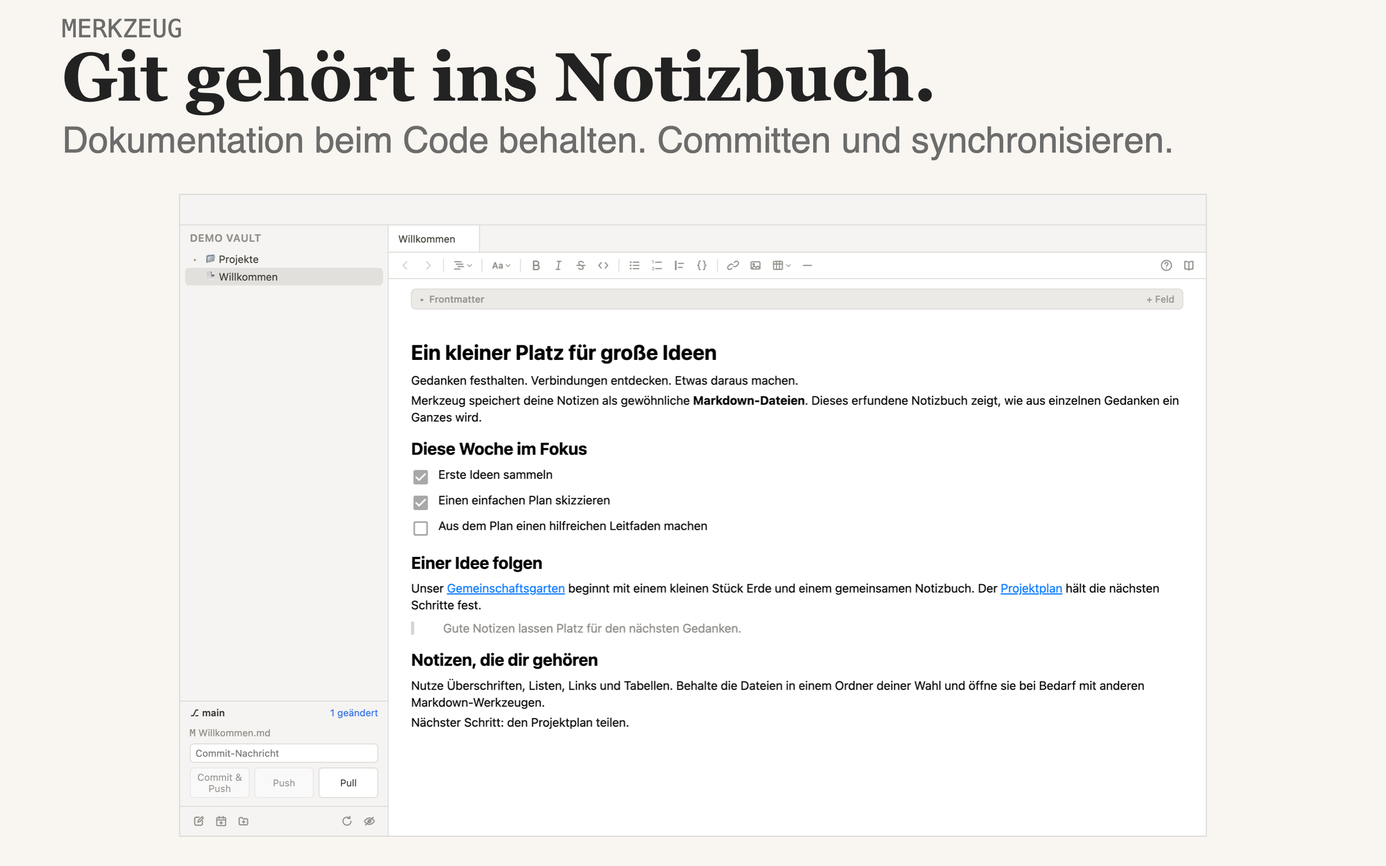
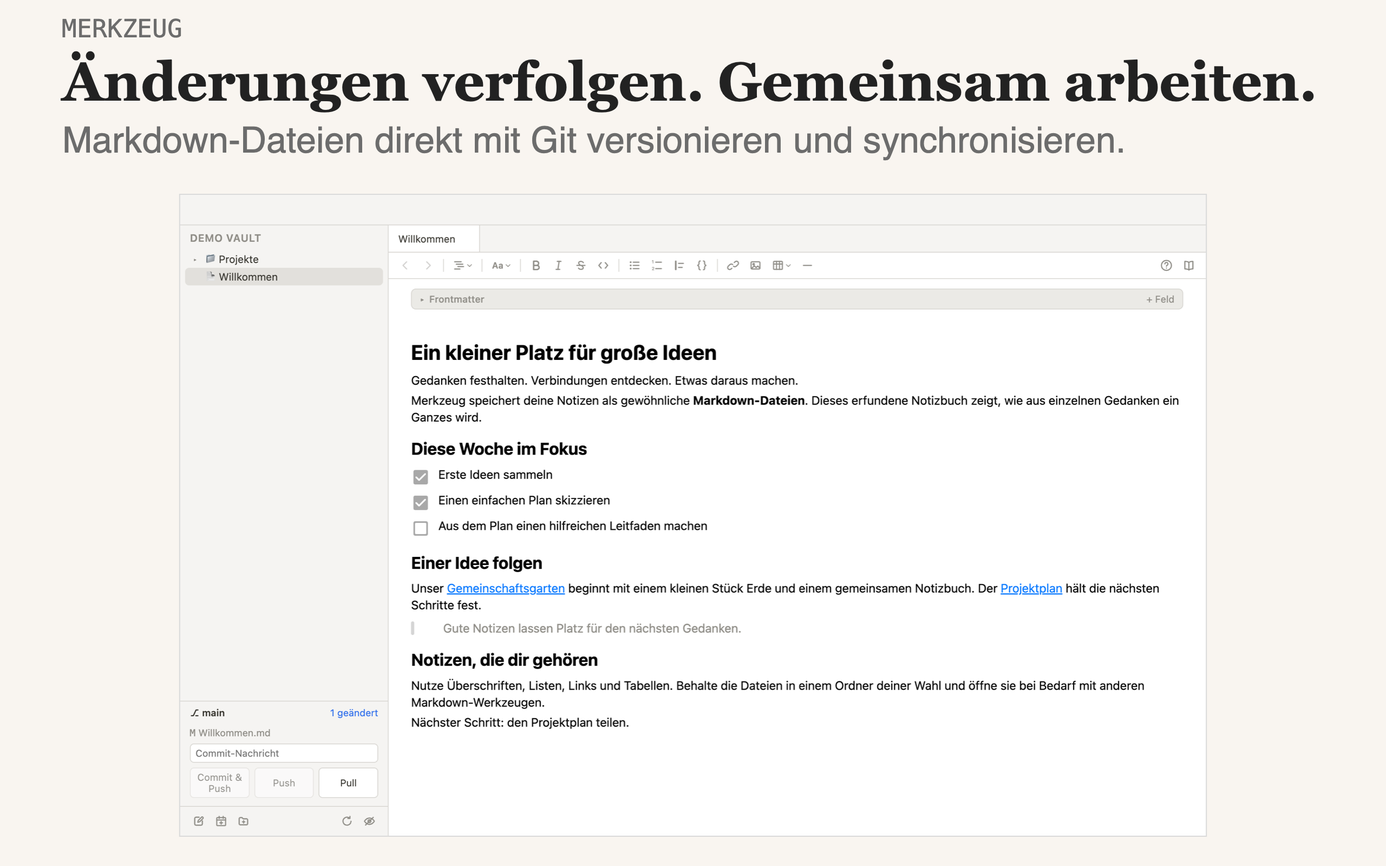
Clarify Git marketing on website and Mac App Store

Changed region(s): [[0.0312, 0.0625, 0.9375, 0.1875]]

diff --git a/website/de.html b/website/de.html
@@ -1,4 +1,4 @@
-<!doctype html><html lang="de"><head><meta charset="utf-8"><meta name="viewport" content="width=device-width,initial-scale=1"><meta name="description" content="Durchsuche, verbinde und bearbeite Markdown-Sammlungen – vom persönlichen Notizbuch bis zur Dokumentation deiner Coding-Agenten."><title>Dein Markdown. Im Zusammenhang. · Merkzeug</title><link rel="stylesheet" href="style.css"><link rel="icon" href="assets/icon.png"><link rel="canonical" href="https://merkzeug.creative-it.com/de.html"><meta property="og:title" content="Dein Markdown. Im Zusammenhang. · Merkzeug"><meta property="og:description" content="Durchsuche, verbinde und bearbeite Markdown-Sammlungen – vom persönlichen Notizbuch bis zur Dokumentation deiner Coding-Agenten."><meta property="og:type" content="website"><meta property="og:image" content="https://merkzeug.creative-it.com/assets/mac-de.png"></head><body><a class="skip" href="#content">Zum Inhalt</a><header><a class="brand" href="de.html"><img src="assets/icon.png" alt="" width="36" height="36"><strong>Merkzeug</strong></a><nav aria-label="Hauptnavigation"><a href="help-de.html">Hilfe</a><a href="https://support.apps.creative-it.com/?app=merkzeug&amp;lang=de">Support</a><a href="index.html" lang="en">English</a></nav></header><main id="content" class=""><section class="hero"><div class="eyebrow">In Entwicklung · Erste App-Store-Version in Vorbereitung</div><h1>Dein Markdown. Im Zusammenhang.</h1><p class="lead">Durchsuche, verbinde und bearbeite Markdown-Sammlungen – vom persönlichen Notizbuch bis zur Dokumentation deiner Coding-Agenten.</p><p>Finde dich in einer Sammlung von Dateien zurecht. Folge Links, lies Diagramme und bearbeite Inhalte visuell. Deine Notizen bleiben in den Ordnern und Repositories, zu denen sie gehören.</p><div class="actions"><a class="button" href="help-de.html">Merkzeug kennenlernen</a><a class="button secondary" href="#platforms">Mac · iPhone · iPad</a></div></section><section id="name" class="feature-section"><p class="eyebrow">Der Gedanke hinter dem Namen</p><h2>Ein Werkzeug fürs Merken.</h2><p><strong>Merken + Werkzeug = Merkzeug.</strong> Für Gedanken, die du festhalten, wiederfinden und weiterentwickeln möchtest. Aus vielen Markdown-Dateien wird eine Sammlung, in der du dich zurechtfindest.</p></section><section id="collections" class="feature-section"><h2>Ein Werkzeug. Zwei Ausgangspunkte.</h2><div class="grid two"><article><h3>Dein persönliches Notizbuch</h3><p>Gedanken, Projekte und Meeting-Notizen bilden eine Sammlung, die mit dir wächst. Nutze einen Ordner als Notizbuch, verknüpfe seine Notizen und halte ihren Kontext im Frontmatter fest. Dafür brauchst du kein Git-Repository.</p></article><article><h3>Dein Repository als Wissenssammlung</h3><p>READMEs, Architekturentscheidungen, Pläne und Agenten-Dokumentation liegen bereits neben deinem Code. Navigiere und bearbeite sie dort, wo sie sind. Links und integrierte Diagramme machen ihre Zusammenhänge sichtbar.</p></article></div><p>Merkzeug ist ein Lese- und Bearbeitungswerkzeug für deine Markdown-Sammlungen. Es erzeugt selbst keine Dokumentation und führt keinen Coding-Agenten aus.</p></section><nav class="section-nav" aria-label="Funktionen entdecken"><a href="#repositories">Repositories</a><a href="#pdf">PDF &amp; Vorlagen</a><a href="#frontmatter">Frontmatter</a><a href="#calendar">Kalender</a><a href="#ios-git">Git auf iOS</a><a href="#platforms">Plattformen</a><a href="#roadmap">Roadmap</a><a href="release-notes-de.html">Release Notes</a></nav><figure style="margin:0"><img class="preview" src="assets/mac-de.png" width="2560" height="1600" alt="Entwicklungsvorschau von Merkzeug auf dem Mac mit erfundenen Notizen"><figcaption>Entwicklungsvorschau von Merkzeug auf dem Mac mit erfundenen Notizen</figcaption></figure><div class="grid"><article><h2>Klar schreiben</h2><p>Überschriften, Listen, Aufgaben, Tabellen und Bilder — visuell bearbeiten, als Markdown speichern.</p></article><article><h2>Gedanken verbinden</h2><p>Verknüpfe Notizen und stelle Abläufe als Mermaid-Diagramme dar. Deine Ordner bleiben deine Struktur.</p></article><article><h2>Als PDF teilen</h2><p>Auf dem Mac exportierst du eine Notiz oder verknüpfte Notizen mit wiederverwendbaren PDF-Vorlagen.</p></article></div><section id="repositories" class="feature-section"><p class="eyebrow">Vom Repository zum lesbaren Zusammenhang</p><h2>Deine Agenten schreiben Markdown. Du erkennst den Zusammenhang.</h2><p class="lead">Architekturübersichten, Umsetzungspläne, Recherchen und Projektübergaben gehören zum Code. Merkzeug macht sie angenehm lesbar.</p><p>Öffne den Dokumentationsordner deines Repositorys, folge Verweisen zwischen Notizen und lies Mermaid-Diagramme direkt im Dokument. Überschriften, Tabellen und Aufgabenlisten geben erzeugten Markdown-Dateien eine klare Struktur. Prüfe das Ergebnis, ergänze Erklärungen und behalte deinen gewohnten Git-Workflow.</p><p>Zum Beispiel: Starte mit einer Übersicht, folge dem Link zu einer Architekturentscheidung, sieh dir das eingebettete Ablaufdiagramm an und exportiere am Desktop die Übersicht samt ausgewählten verlinkten Notizen als PDF.</p><figure><a href="assets/macos-de-diagram.png"><img class="preview" src="assets/macos-de-diagram.png" width="2560" height="1600" loading="lazy" alt="Mac-Entwicklungsvorschau mit einem Mermaid-Ablaufdiagramm in einer Projektnotiz"></a><figcaption>Das Diagramm ist Teil der Notiz. Mac-Entwicklungsvorschau mit erfundenen Beispieldaten; Bild anklicken für die volle Größe.</figcaption></figure><h3>Änderungen mit Git festhalten.</h3><p>Der Git-Bereich am Desktop zeigt den aktuellen Branch und geänderte Dateien und bietet Commit, Push und Pull. Auf iPhone und iPad übernimmt Working Copy die Git-Aktionen, während Merkzeug die gemeinsamen Dateien bearbeitet.</p><figure class="feature-shot"><a href="assets/macos-de-git.png"><img class="preview" src="assets/macos-de-git.png" width="2560" height="1600" loading="lazy" decoding="async" alt="Git-Bereich mit dem Branch main, einer geänderten Markdown-Datei und Aktionen für Commit, Push und Pull"></a><figcaption>Mac · Geänderte Dateien sehen und Git direkt im Notizbuch verwenden. Der Screenshot zeigt ein lokales Demo-Repository.</figcaption></figure></section>
+<!doctype html><html lang="de"><head><meta charset="utf-8"><meta name="viewport" content="width=device-width,initial-scale=1"><meta name="description" content="Durchsuche, verbinde und bearbeite Markdown-Sammlungen – vom persönlichen Notizbuch bis zur Dokumentation deiner Coding-Agenten."><title>Dein Markdown. Im Zusammenhang. · Merkzeug</title><link rel="stylesheet" href="style.css"><link rel="icon" href="assets/icon.png"><link rel="canonical" href="https://merkzeug.creative-it.com/de.html"><meta property="og:title" content="Dein Markdown. Im Zusammenhang. · Merkzeug"><meta property="og:description" content="Durchsuche, verbinde und bearbeite Markdown-Sammlungen – vom persönlichen Notizbuch bis zur Dokumentation deiner Coding-Agenten."><meta property="og:type" content="website"><meta property="og:image" content="https://merkzeug.creative-it.com/assets/mac-de.png"></head><body><a class="skip" href="#content">Zum Inhalt</a><header><a class="brand" href="de.html"><img src="assets/icon.png" alt="" width="36" height="36"><strong>Merkzeug</strong></a><nav aria-label="Hauptnavigation"><a href="help-de.html">Hilfe</a><a href="https://support.apps.creative-it.com/?app=merkzeug&amp;lang=de">Support</a><a href="index.html" lang="en">English</a></nav></header><main id="content" class=""><section class="hero"><div class="eyebrow">In Entwicklung · Erste App-Store-Version in Vorbereitung</div><h1>Dein Markdown. Im Zusammenhang.</h1><p class="lead">Durchsuche, verbinde und bearbeite Markdown-Sammlungen – vom persönlichen Notizbuch bis zur Dokumentation deiner Coding-Agenten.</p><p>Finde dich in einer Sammlung von Dateien zurecht. Folge Links, lies Diagramme und bearbeite Inhalte visuell. Deine Notizen bleiben in den Ordnern und Repositories, zu denen sie gehören.</p><div class="actions"><a class="button" href="help-de.html">Merkzeug kennenlernen</a><a class="button secondary" href="#platforms">Mac · iPhone · iPad</a></div></section><section id="name" class="feature-section"><p class="eyebrow">Der Gedanke hinter dem Namen</p><h2>Ein Werkzeug fürs Merken.</h2><p><strong>Merken + Werkzeug = Merkzeug.</strong> Für Gedanken, die du festhalten, wiederfinden und weiterentwickeln möchtest. Aus vielen Markdown-Dateien wird eine Sammlung, in der du dich zurechtfindest.</p></section><section id="collections" class="feature-section"><h2>Ein Werkzeug. Zwei Ausgangspunkte.</h2><div class="grid two"><article><h3>Dein persönliches Notizbuch</h3><p>Gedanken, Projekte und Meeting-Notizen bilden eine Sammlung, die mit dir wächst. Nutze einen Ordner als Notizbuch, verknüpfe seine Notizen und halte ihren Kontext im Frontmatter fest. Dafür brauchst du kein Git-Repository.</p></article><article><h3>Dein Repository als Wissenssammlung</h3><p>READMEs, Architekturentscheidungen, Pläne und Agenten-Dokumentation liegen bereits neben deinem Code. Navigiere und bearbeite sie dort, wo sie sind. Links und integrierte Diagramme machen ihre Zusammenhänge sichtbar.</p></article></div><p>Merkzeug ist ein Lese- und Bearbeitungswerkzeug für deine Markdown-Sammlungen. Es erzeugt selbst keine Dokumentation und führt keinen Coding-Agenten aus.</p></section><nav class="section-nav" aria-label="Funktionen entdecken"><a href="#repositories">Repositories</a><a href="#pdf">PDF &amp; Vorlagen</a><a href="#frontmatter">Frontmatter</a><a href="#calendar">Kalender</a><a href="#ios-git">Git auf iOS</a><a href="#platforms">Plattformen</a><a href="#roadmap">Roadmap</a><a href="release-notes-de.html">Release Notes</a></nav><figure style="margin:0"><img class="preview" src="assets/mac-de.png" width="2560" height="1600" alt="Entwicklungsvorschau von Merkzeug auf dem Mac mit erfundenen Notizen"><figcaption>Entwicklungsvorschau von Merkzeug auf dem Mac mit erfundenen Notizen</figcaption></figure><div class="grid"><article><h2>Klar schreiben</h2><p>Überschriften, Listen, Aufgaben, Tabellen und Bilder — visuell bearbeiten, als Markdown speichern.</p></article><article><h2>Gedanken verbinden</h2><p>Verknüpfe Notizen und stelle Abläufe als Mermaid-Diagramme dar. Deine Ordner bleiben deine Struktur.</p></article><article><h2>Als PDF teilen</h2><p>Auf dem Mac exportierst du eine Notiz oder verknüpfte Notizen mit wiederverwendbaren PDF-Vorlagen.</p></article></div><section id="repositories" class="feature-section"><p class="eyebrow">Vom Repository zum lesbaren Zusammenhang</p><h2>Deine Agenten schreiben Markdown. Du erkennst den Zusammenhang.</h2><p class="lead">Architekturübersichten, Umsetzungspläne, Recherchen und Projektübergaben gehören zum Code. Merkzeug macht sie angenehm lesbar.</p><p>Öffne den Dokumentationsordner deines Repositorys, folge Verweisen zwischen Notizen und lies Mermaid-Diagramme direkt im Dokument. Überschriften, Tabellen und Aufgabenlisten geben erzeugten Markdown-Dateien eine klare Struktur. Prüfe das Ergebnis, ergänze Erklärungen und behalte deinen gewohnten Git-Workflow.</p><p>Zum Beispiel: Starte mit einer Übersicht, folge dem Link zu einer Architekturentscheidung, sieh dir das eingebettete Ablaufdiagramm an und exportiere am Desktop die Übersicht samt ausgewählten verlinkten Notizen als PDF.</p><figure><a href="assets/macos-de-diagram.png"><img class="preview" src="assets/macos-de-diagram.png" width="2560" height="1600" loading="lazy" alt="Mac-Entwicklungsvorschau mit einem Mermaid-Ablaufdiagramm in einer Projektnotiz"></a><figcaption>Das Diagramm ist Teil der Notiz. Mac-Entwicklungsvorschau mit erfundenen Beispieldaten; Bild anklicken für die volle Größe.</figcaption></figure><h3>Änderungen verfolgen. Gemeinsam arbeiten.</h3><p>Markdown-Dateien direkt mit Git versionieren und synchronisieren.</p><p>Der Git-Bereich am Desktop zeigt den aktuellen Branch und geänderte Dateien und bietet Commit, Push und Pull. Auf iPhone und iPad übernimmt Working Copy die Git-Aktionen, während Merkzeug die gemeinsamen Dateien bearbeitet.</p><figure class="feature-shot"><a href="assets/macos-de-git.png"><img class="preview" src="assets/macos-de-git.png" width="2560" height="1600" loading="lazy" decoding="async" alt="Git-Bereich mit dem Branch main, einer geänderten Markdown-Datei und Aktionen für Commit, Push und Pull"></a><figcaption>Mac · Geänderte Dateien sehen und Git direkt im Notizbuch verwenden. Der Screenshot zeigt ein lokales Demo-Repository.</figcaption></figure></section>
 <section id="pdf" class="feature-section"><p class="eyebrow">PDF-Export &amp; Vorlagen · Desktop und IntelliJ-Vorschau</p><h2>Aus Arbeitsnotizen werden Dokumente zum Weitergeben.</h2><div class="grid two"><article><h3>Eine Notiz. Oder mehrere verknüpfte Dokumente.</h3><p>Exportiere eine einzelne Notiz oder hänge direkt verlinkte Markdown-Dokumente aus ihrer Ordnerhierarchie an. Verweise auf enthaltene Dokumente werden zu PDF-Sprungzielen. Ergänze ein anklickbares Inhaltsverzeichnis und einen eigenen Titel für das gemeinsame Dokument.</p><p>Mermaid-Diagramme werden vor dem Export gerendert. Breite Tabellen lösen eine Ausgabe im Querformat aus. Am Desktop kannst du auch mehrere ausgewählte Notizen als einzelne PDFs exportieren.</p></article><article><h3>Ein wiederverwendbares Layout pro Projekt.</h3><p>Gestalte Vorlagen mit Deckblatt, Logo, Kopf- und Fußzeilen, CSS und Seitenrändern. Füge Dokumenttitel, Datum und Seitenzahlen ein. Am Desktop ordnest du einem Notizbuch eine Vorlage zu; in IntelliJ wählst du einen Vorlagenordner für das Projekt.</p><p>Vorlagen sind gewöhnliche Dateien und lassen sich mit Git versionieren. Der PDF-Export läuft lokal. Auf iPhone und iPad ist er noch nicht verfügbar.</p></article></div><p>Starte mit der mitgelieferten Merkzeug-Vorlage. Passe eine Kopie an deine Farben und dein Logo an oder nutze die enthaltene Anleitung mit einem Agenten.</p><details><summary>Was gehört in eine PDF-Vorlage?</summary><p>Eine Vorlage ist ein Ordner mit diesen optionalen Dateien:</p><ul><li><code>deckblatt.html</code> — Deckblatt</li><li><code>kopfzeile.html</code> und <code>fusszeile.html</code> — Kopf- und Fußzeile</li><li><code>stil.css</code> — Dokumentgestaltung</li><li><code>vorlage.json</code> — Seitenränder</li></ul><p>Lege Logos im selben Ordner ab und verweise mit relativen Bildpfaden darauf. <code>{{titel}}</code> und <code>{{datum}}</code> setzen Titel und Exportdatum ein.</p></details><p><a href="help-de.html">PDF-Export und Vorlagen im Desktop-Handbuch kennenlernen →</a></p><figure class="feature-shot"><a href="assets/macos-de-pdf.png"><img class="preview" src="assets/macos-de-pdf.png" width="2880" height="1800" loading="lazy" decoding="async" alt="Deckblatt und Diagrammseite eines mit der Merkzeug-Vorlage exportierten PDFs"></a><figcaption>Echtes PDF-Ergebnis · Deckblatt und verlinkte Projektnotiz, exportiert mit der mitgelieferten Merkzeug-Vorlage. Bild für die volle Größe auswählen.</figcaption></figure></section>
 <section id="frontmatter" class="feature-section"><p class="eyebrow">Frontmatter</p><h2>Gib deinen Notizen Kontext.</h2><div class="grid two"><div><p>Strukturierte Metadaten stehen am Anfang deiner Markdown-Datei. Klappe den Frontmatter-Bereich auf, bearbeite YAML und ergänze Felder für Titel, Tags oder eigene Projektinformationen.</p><p>Auch die Exporteinstellungen bleiben beim Dokument: <code>pdf-linked-title</code> benennt das gemeinsame PDF, <code>pdf-toc</code> aktiviert sein Inhaltsverzeichnis, <code>pdf-exclude</code> lässt ausgewählte verlinkte Notizen aus und <code>language</code> bestimmt die Sprache der Inhaltsüberschrift.</p></div><div><pre aria-label="Beispiel für YAML-Frontmatter"><code>---
 title: Systemübersicht

diff --git a/website/index.html b/website/index.html
@@ -1,4 +1,4 @@
-<!doctype html><html lang="en"><head><meta charset="utf-8"><meta name="viewport" content="width=device-width,initial-scale=1"><meta name="description" content="Explore and edit Markdown collections — from personal notebooks to documentation written by coding agents."><title>Your Markdown. Connected. · Merkzeug</title><link rel="stylesheet" href="style.css"><link rel="icon" href="assets/icon.png"><link rel="canonical" href="https://merkzeug.creative-it.com/"><meta property="og:title" content="Your Markdown. Connected. · Merkzeug"><meta property="og:description" content="Explore and edit Markdown collections — from personal notebooks to documentation written by coding agents."><meta property="og:type" content="website"><meta property="og:image" content="https://merkzeug.creative-it.com/assets/mac-en.png"></head><body><a class="skip" href="#content">Skip to content</a><header><a class="brand" href="index.html"><img src="assets/icon.png" alt="" width="36" height="36"><strong>Merkzeug</strong></a><nav aria-label="Main navigation"><a href="help-en.html">Help</a><a href="https://support.apps.creative-it.com/?app=merkzeug&amp;lang=en">Support</a><a href="de.html" lang="de">Deutsch</a></nav></header><main id="content" class=""><section class="hero"><div class="eyebrow">In development · First App Store release in preparation</div><h1>Your Markdown. Connected.</h1><p class="lead">Explore and edit Markdown collections — from personal notebooks to documentation written by coding agents.</p><p>Find your way through a collection of files. Follow links, read diagrams and edit visually. Your notes stay in the folders and repositories where they belong.</p><div class="actions"><a class="button" href="help-en.html">Explore the guide</a><a class="button secondary" href="#platforms">Mac · iPhone · iPad</a></div></section><section id="name" class="feature-section"><p class="eyebrow">The name behind the tool</p><h2>Merkzeug — a tool for thoughts worth keeping.</h2><p>The name brings together the German words <em>merken</em> — to remember — and <em>Werkzeug</em> — tool. A tool for keeping ideas, finding them again and making something of them.</p></section><section id="collections" class="feature-section"><h2>One tool. Two places to begin.</h2><div class="grid two"><article><h3>Your personal notebook</h3><p>Ideas, projects and meeting notes form a collection that grows with you. Use a folder as your notebook, connect its notes and keep their context with frontmatter. No Git repository is required.</p></article><article><h3>Your repository as a knowledge collection</h3><p>READMEs, architecture decisions, plans and agent-written documentation already live beside your code. Navigate and edit them where they are, using links and integrated diagrams to see how they fit together.</p></article></div><p>Merkzeug is a reader and editor for your Markdown collections. It does not generate documentation or run a coding agent.</p></section><nav class="section-nav" aria-label="Explore features"><a href="#repositories">Repositories</a><a href="#pdf">PDF &amp; Templates</a><a href="#frontmatter">Frontmatter</a><a href="#calendar">Calendar</a><a href="#ios-git">Git on iOS</a><a href="#platforms">Platforms</a><a href="#roadmap">Roadmap</a><a href="release-notes-en.html">Release notes</a></nav><figure style="margin:0"><img class="preview" src="assets/mac-en.png" width="2560" height="1600" alt="Development preview of Merkzeug on Mac with fictional notes"><figcaption>Development preview of Merkzeug on Mac with fictional notes</figcaption></figure><div class="grid"><article><h2>Write with clarity</h2><p>Headings, lists, tasks, tables and images — with visual editing and Markdown underneath.</p></article><article><h2>Connect your thinking</h2><p>Link notes and turn processes into Mermaid diagrams. Your folders remain your structure.</p></article><article><h2>Share as a PDF</h2><p>On Mac, export a note or a collection of linked notes with reusable PDF templates.</p></article></div><section id="repositories" class="feature-section"><p class="eyebrow">From your repository to a readable story</p><h2>Your agents write Markdown. You make sense of it.</h2><p class="lead">Architecture overviews, implementation plans, research and project handovers belong beside the code. Merkzeug makes them comfortable to read.</p><p>Open your repository’s documentation folder, follow links between notes and read Mermaid diagrams directly in the document. Headings, tables and task lists give generated Markdown a clear visual structure. Review the result, edit the explanation and keep the files in your existing Git workflow.</p><p>For example: start with an overview, follow a link to a design decision, inspect its embedded flowchart, then export the overview and selected linked notes as a PDF on desktop.</p><figure><a href="assets/macos-en-diagram.png"><img class="preview" src="assets/macos-en-diagram.png" width="2560" height="1600" loading="lazy" alt="Mac development preview showing a Mermaid flowchart inside a project note"></a><figcaption>A diagram is part of the note. Mac development preview with fictional demo content; select the image to see it full size.</figcaption></figure><h3>Keep changes in Git.</h3><p>The desktop Git panel shows the current branch and changed files, with commit, push and pull actions. On iPhone and iPad, Working Copy handles Git while Merkzeug edits the shared files.</p><figure class="feature-shot"><a href="assets/macos-en-git.png"><img class="preview" src="assets/macos-en-git.png" width="2560" height="1600" loading="lazy" decoding="async" alt="Git panel showing the main branch, a changed Markdown file and commit, push and pull controls"></a><figcaption>Mac · Review changed files and use Git from your notebook. The screenshot uses a local demo repository.</figcaption></figure></section>
+<!doctype html><html lang="en"><head><meta charset="utf-8"><meta name="viewport" content="width=device-width,initial-scale=1"><meta name="description" content="Explore and edit Markdown collections — from personal notebooks to documentation written by coding agents."><title>Your Markdown. Connected. · Merkzeug</title><link rel="stylesheet" href="style.css"><link rel="icon" href="assets/icon.png"><link rel="canonical" href="https://merkzeug.creative-it.com/"><meta property="og:title" content="Your Markdown. Connected. · Merkzeug"><meta property="og:description" content="Explore and edit Markdown collections — from personal notebooks to documentation written by coding agents."><meta property="og:type" content="website"><meta property="og:image" content="https://merkzeug.creative-it.com/assets/mac-en.png"></head><body><a class="skip" href="#content">Skip to content</a><header><a class="brand" href="index.html"><img src="assets/icon.png" alt="" width="36" height="36"><strong>Merkzeug</strong></a><nav aria-label="Main navigation"><a href="help-en.html">Help</a><a href="https://support.apps.creative-it.com/?app=merkzeug&amp;lang=en">Support</a><a href="de.html" lang="de">Deutsch</a></nav></header><main id="content" class=""><section class="hero"><div class="eyebrow">In development · First App Store release in preparation</div><h1>Your Markdown. Connected.</h1><p class="lead">Explore and edit Markdown collections — from personal notebooks to documentation written by coding agents.</p><p>Find your way through a collection of files. Follow links, read diagrams and edit visually. Your notes stay in the folders and repositories where they belong.</p><div class="actions"><a class="button" href="help-en.html">Explore the guide</a><a class="button secondary" href="#platforms">Mac · iPhone · iPad</a></div></section><section id="name" class="feature-section"><p class="eyebrow">The name behind the tool</p><h2>Merkzeug — a tool for thoughts worth keeping.</h2><p>The name brings together the German words <em>merken</em> — to remember — and <em>Werkzeug</em> — tool. A tool for keeping ideas, finding them again and making something of them.</p></section><section id="collections" class="feature-section"><h2>One tool. Two places to begin.</h2><div class="grid two"><article><h3>Your personal notebook</h3><p>Ideas, projects and meeting notes form a collection that grows with you. Use a folder as your notebook, connect its notes and keep their context with frontmatter. No Git repository is required.</p></article><article><h3>Your repository as a knowledge collection</h3><p>READMEs, architecture decisions, plans and agent-written documentation already live beside your code. Navigate and edit them where they are, using links and integrated diagrams to see how they fit together.</p></article></div><p>Merkzeug is a reader and editor for your Markdown collections. It does not generate documentation or run a coding agent.</p></section><nav class="section-nav" aria-label="Explore features"><a href="#repositories">Repositories</a><a href="#pdf">PDF &amp; Templates</a><a href="#frontmatter">Frontmatter</a><a href="#calendar">Calendar</a><a href="#ios-git">Git on iOS</a><a href="#platforms">Platforms</a><a href="#roadmap">Roadmap</a><a href="release-notes-en.html">Release notes</a></nav><figure style="margin:0"><img class="preview" src="assets/mac-en.png" width="2560" height="1600" alt="Development preview of Merkzeug on Mac with fictional notes"><figcaption>Development preview of Merkzeug on Mac with fictional notes</figcaption></figure><div class="grid"><article><h2>Write with clarity</h2><p>Headings, lists, tasks, tables and images — with visual editing and Markdown underneath.</p></article><article><h2>Connect your thinking</h2><p>Link notes and turn processes into Mermaid diagrams. Your folders remain your structure.</p></article><article><h2>Share as a PDF</h2><p>On Mac, export a note or a collection of linked notes with reusable PDF templates.</p></article></div><section id="repositories" class="feature-section"><p class="eyebrow">From your repository to a readable story</p><h2>Your agents write Markdown. You make sense of it.</h2><p class="lead">Architecture overviews, implementation plans, research and project handovers belong beside the code. Merkzeug makes them comfortable to read.</p><p>Open your repository’s documentation folder, follow links between notes and read Mermaid diagrams directly in the document. Headings, tables and task lists give generated Markdown a clear visual structure. Review the result, edit the explanation and keep the files in your existing Git workflow.</p><p>For example: start with an overview, follow a link to a design decision, inspect its embedded flowchart, then export the overview and selected linked notes as a PDF on desktop.</p><figure><a href="assets/macos-en-diagram.png"><img class="preview" src="assets/macos-en-diagram.png" width="2560" height="1600" loading="lazy" alt="Mac development preview showing a Mermaid flowchart inside a project note"></a><figcaption>A diagram is part of the note. Mac development preview with fictional demo content; select the image to see it full size.</figcaption></figure><h3>Track changes. Work together.</h3><p>Version and sync your Markdown files with Git.</p><p>The desktop Git panel shows the current branch and changed files, with commit, push and pull actions. On iPhone and iPad, Working Copy handles Git while Merkzeug edits the shared files.</p><figure class="feature-shot"><a href="assets/macos-en-git.png"><img class="preview" src="assets/macos-en-git.png" width="2560" height="1600" loading="lazy" decoding="async" alt="Git panel showing the main branch, a changed Markdown file and commit, push and pull controls"></a><figcaption>Mac · Review changed files and use Git from your notebook. The screenshot uses a local demo repository.</figcaption></figure></section>
 <section id="pdf" class="feature-section"><p class="eyebrow">PDF export &amp; templates · Desktop and IntelliJ preview</p><h2>Turn working notes into a document worth sharing.</h2><div class="grid two"><article><h3>One note. Or a linked document set.</h3><p>Export a single note or append directly linked Markdown documents from its folder hierarchy. Links to included documents become PDF destinations. Add a clickable table of contents and give the combined document its own title.</p><p>Mermaid diagrams render before export. Wide tables trigger landscape output. Desktop also lets you export several selected notes as individual PDFs.</p></article><article><h3>A reusable look for each project.</h3><p>Start with the included Merkzeug template, then adapt its cover, page headers, footers, CSS and margins. Add your logo or let an agent customize a copy using the included guide. Include the document title, date and page numbers. On desktop, assign a template to a notebook; in IntelliJ, select a template folder for the project.</p><p>Templates are ordinary files, so you can version them alongside your work. PDF export runs locally. It is not yet available on iPhone or iPad.</p></article></div><details><summary>What goes into a PDF template?</summary><p>Each template is a folder containing any of these optional files. The filenames retain their German names for compatibility.</p><ul><li><code>deckblatt.html</code> — cover page</li><li><code>kopfzeile.html</code> and <code>fusszeile.html</code> — page header and footer</li><li><code>stil.css</code> — document styling</li><li><code>vorlage.json</code> — page margins</li></ul><p>Keep logos in that folder and reference them with relative image paths. Use <code>{{titel}}</code> and <code>{{datum}}</code> for the title and export date.</p></details><p><a href="help-en.html">Explore PDF export and template setup in the desktop guide →</a></p><figure class="feature-shot"><a href="assets/macos-en-pdf.png"><img class="preview" src="assets/macos-en-pdf.png" width="2880" height="1800" loading="lazy" decoding="async" alt="Cover and diagram page from a PDF exported with the bundled Merkzeug template"></a><figcaption>Actual PDF output · A cover and linked project note, exported with the included Merkzeug template. Select the image to see it full size.</figcaption></figure></section>
 <section id="frontmatter" class="feature-section"><p class="eyebrow">Frontmatter</p><h2>Give your notes context.</h2><div class="grid two"><div><p>Keep structured metadata at the top of your Markdown file. Expand the frontmatter panel to edit YAML and add fields for titles, tags or your own project information.</p><p>Export settings live with the document too: <code>pdf-linked-title</code> names a combined PDF, <code>pdf-toc</code> enables its contents page, <code>pdf-exclude</code> leaves selected linked notes out, and <code>language</code> controls the contents heading’s language.</p></div><div><pre aria-label="Example YAML frontmatter"><code>---
 title: System overview

diff --git a/store/automation/ScreenshotFrame.swift b/store/automation/ScreenshotFrame.swift
@@ -14,12 +14,21 @@ enum ScreenshotFrame {
         ctx.fill(CGRect(x: 0, y: 0, width: w, height: h))
         let width = CGFloat(w), height = CGFloat(h)
         let margin = width * 0.045
-        func text(_ value: String, y: CGFloat, size: CGFloat, font: String, color: CGColor) throws {
-            let attributed = NSAttributedString(string: value, attributes: [
-                NSAttributedString.Key(kCTFontAttributeName as String): CTFontCreateWithName(font as CFString, size, nil),
+        func text(_ value: String, y: CGFloat, size: CGFloat, font: String, color: CGColor, fitTitle: Bool = false) throws {
+            func lineAt(_ pointSize: CGFloat) -> CTLine {
+                let attributed = NSAttributedString(string: value, attributes: [
+                NSAttributedString.Key(kCTFontAttributeName as String): CTFontCreateWithName(font as CFString, pointSize, nil),
                 NSAttributedString.Key(kCTForegroundColorAttributeName as String): color
             ])
-            let line = CTLineCreateWithAttributedString(attributed)
+                return CTLineCreateWithAttributedString(attributed)
+            }
+            var line = lineAt(size)
+            let measured = CGFloat(CTLineGetTypographicBounds(line, nil, nil, nil))
+            if fitTitle && measured > width - margin * 2 {
+                let fitted = size * (width - margin * 2) / measured * 0.995
+                guard fitted >= size * 0.7 else { throw Failure.textOverflow(value) }
+                line = lineAt(fitted)
+            }
             guard CTLineGetTypographicBounds(line, nil, nil, nil) <= Double(width - margin * 2) else { throw Failure.textOverflow(value) }
             ctx.textMatrix = .identity
             ctx.textPosition = CGPoint(x: margin, y: y)
@@ -28,7 +37,7 @@ enum ScreenshotFrame {
         let ink = CGColor(gray: 0.1, alpha: 1), muted = CGColor(gray: 0.35, alpha: 1)
         let landscape = w > h
         try text("MERKZEUG", y: height * 0.957, size: width * 0.018, font: "Menlo-Regular", color: muted)
-        try text(title, y: height * (landscape ? 0.884 : 0.905), size: width * 0.049, font: "Georgia-Bold", color: ink)
+        try text(title, y: height * (landscape ? 0.884 : 0.905), size: width * 0.049, font: "Georgia-Bold", color: ink, fitTitle: true)
         try text(subtitle, y: height * (landscape ? 0.824 : 0.87), size: width * 0.026, font: "Helvetica", color: muted)
         let available = CGRect(x: margin, y: height * 0.035, width: width - margin * 2, height: height * (landscape ? 0.74 : 0.79))
         let scale = min(available.width / width, available.height / height)
